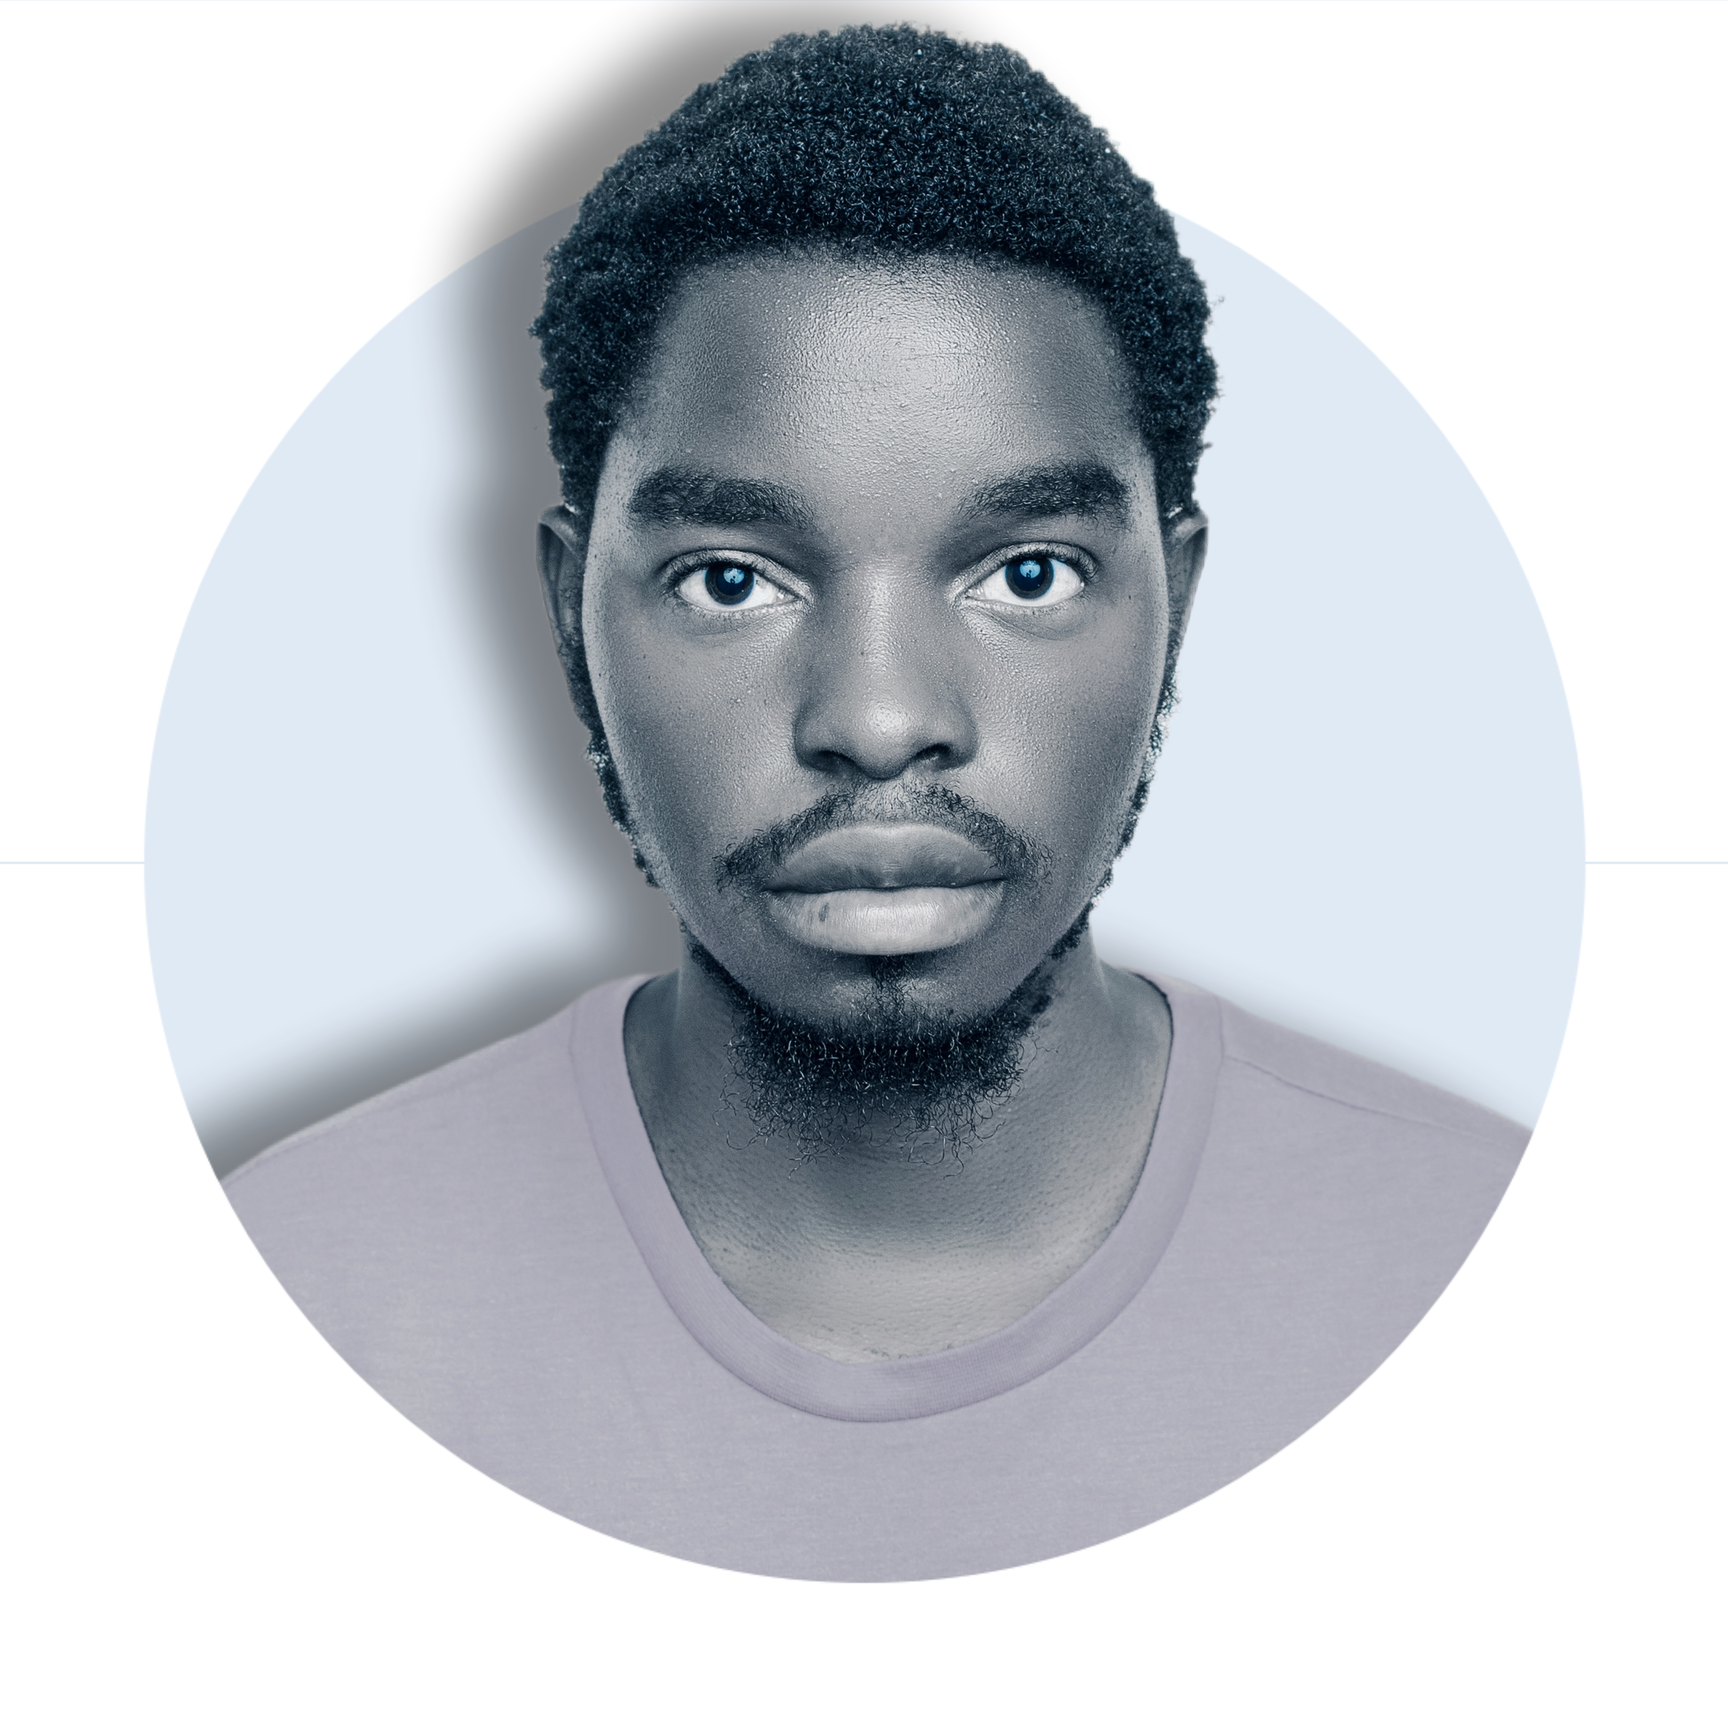
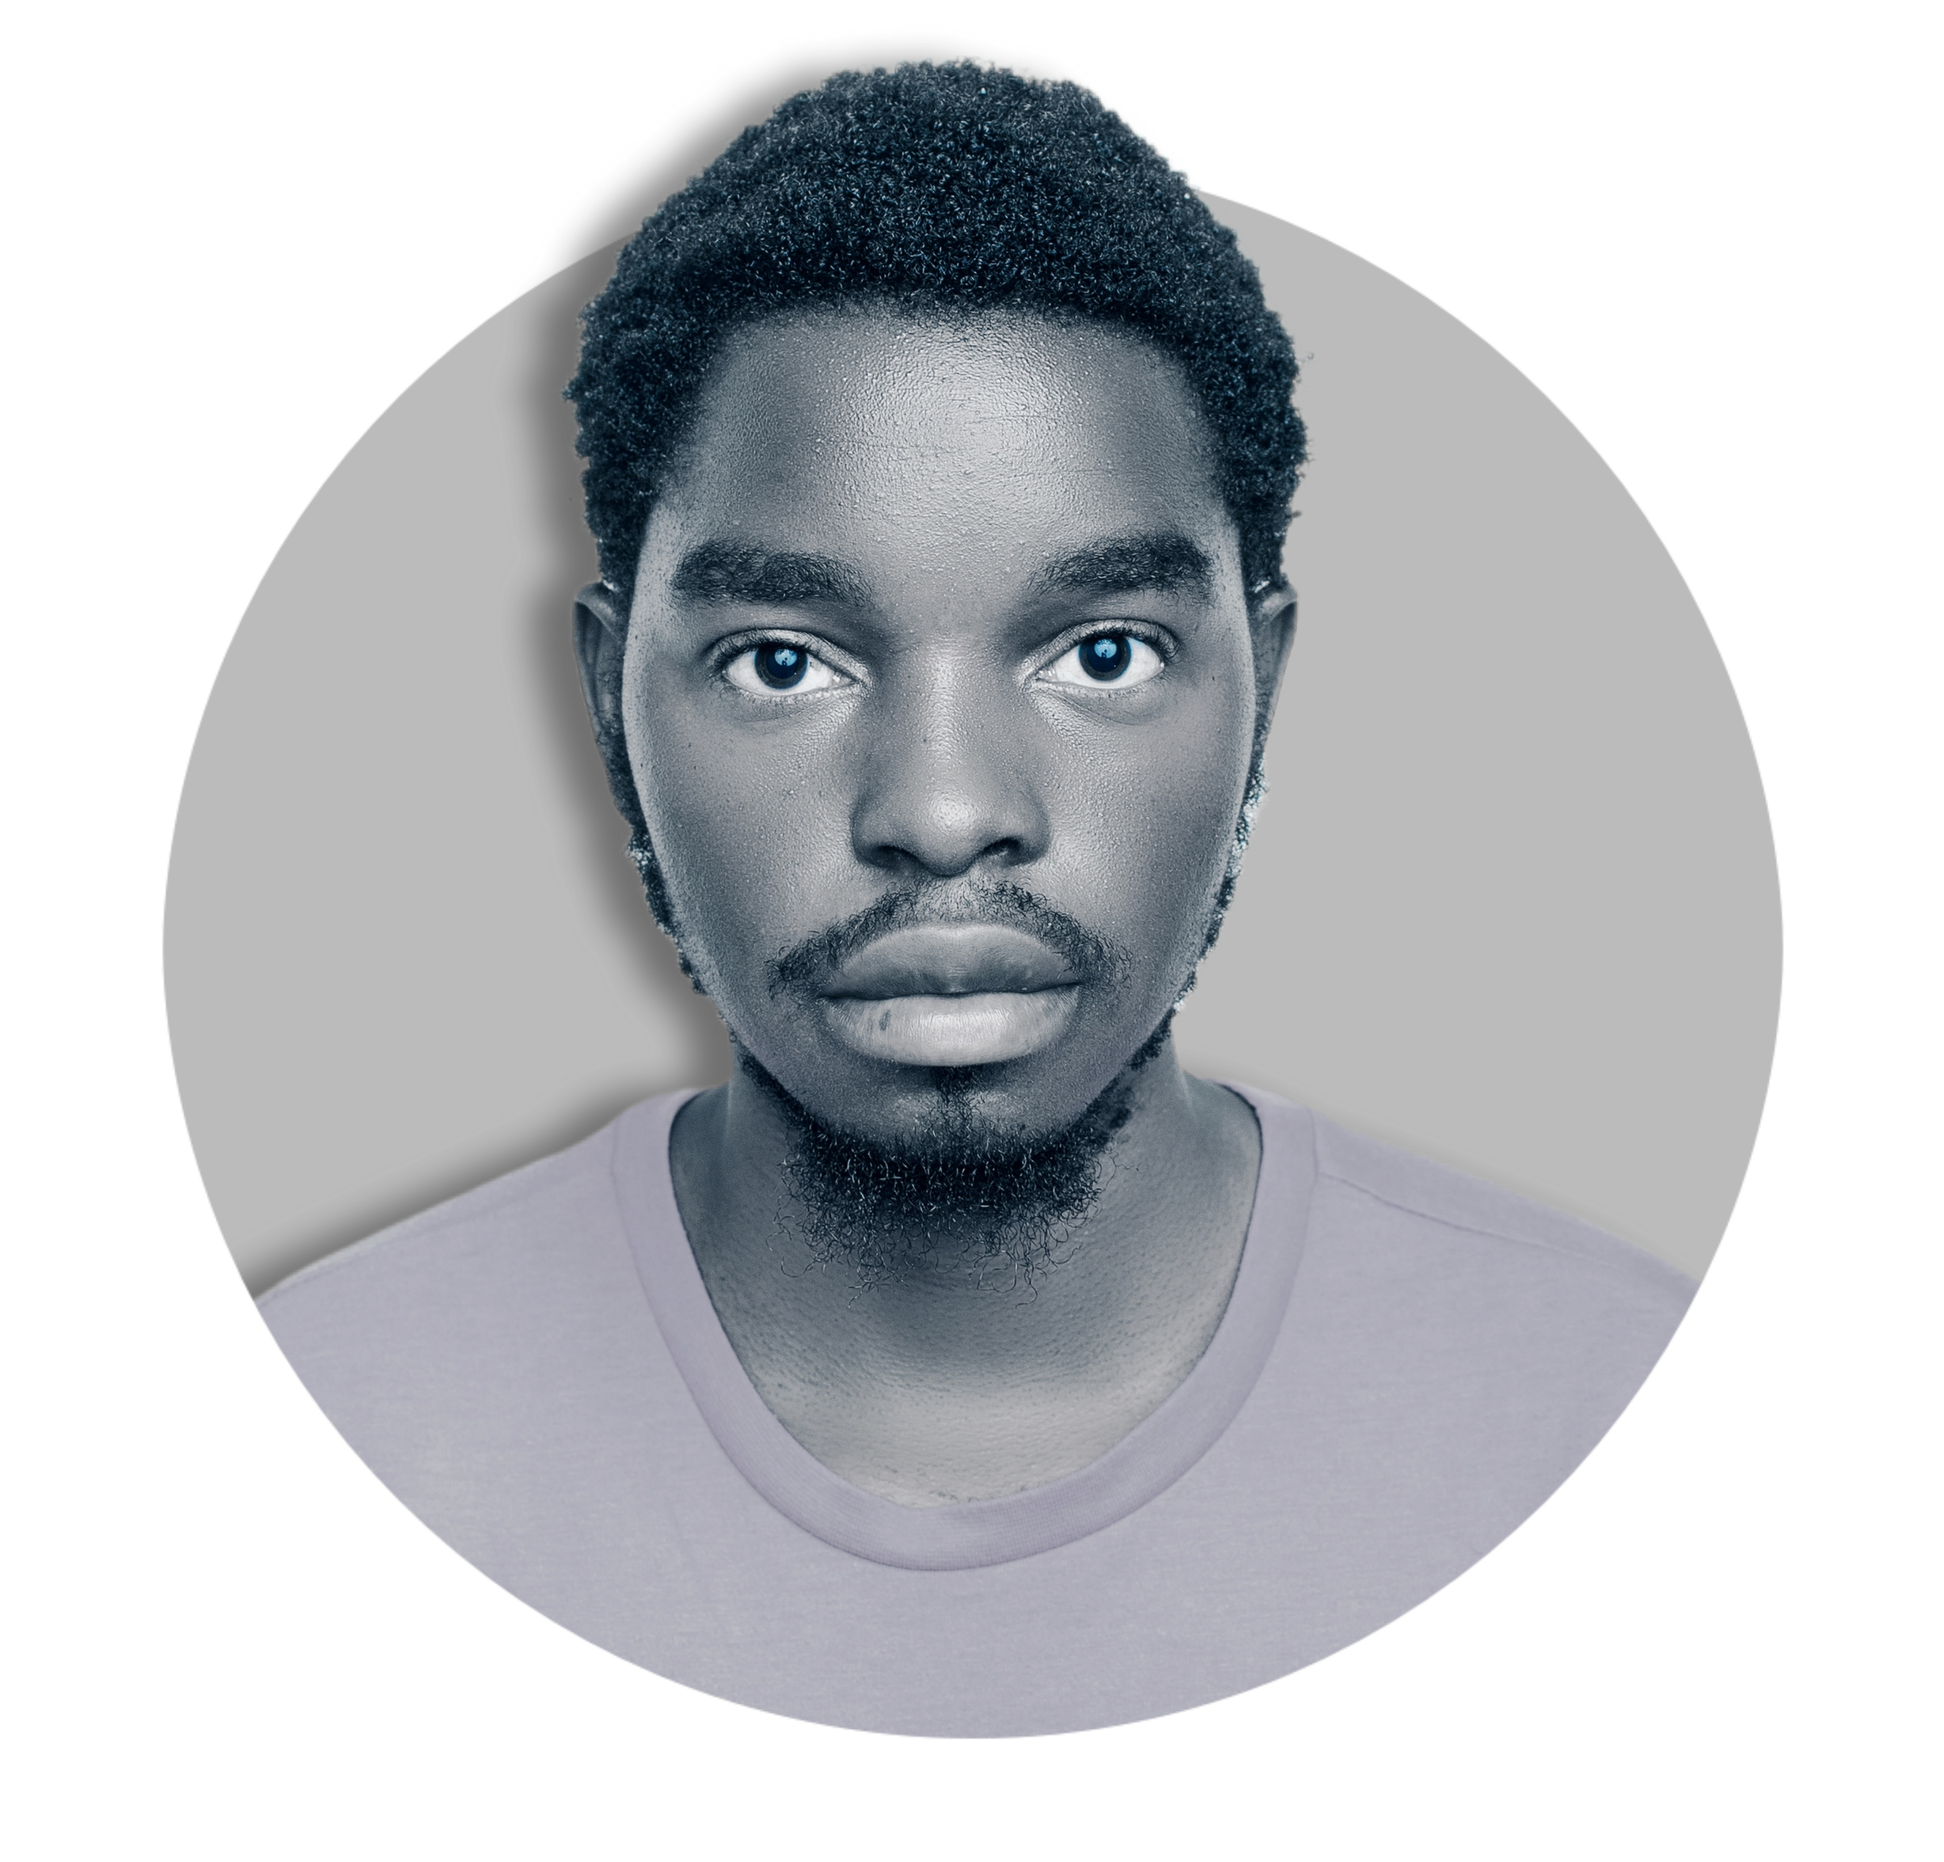
now version 12 --changed loading picture of PWA and css of pop up PWA install button

diff --git a/src/InstallPWA.tsx b/src/InstallPWA.tsx
@@ -1,5 +1,5 @@
 import React, { useEffect, useState } from 'react';
-import '/styles/InstallPWA.css';
+import './styles/InstallPWA.css';
 
 interface BeforeInstallPromptEvent extends Event {
   prompt: () => Promise<void>;

diff --git a/public/service-worker.js b/public/service-worker.js
@@ -1,5 +1,5 @@
 // Cache name with version
-const CACHE_NAME = 'stanleygersom-portfolio-v11';
+const CACHE_NAME = 'stanleygersom-portfolio-v12';
 
 // Files to cache
 const urlsToCache = [

diff --git a/styles/InstallPWA.css b/styles/InstallPWA.css
@@ -1,5 +1,5 @@
 /* Updated v1.2 */
-button.install-button {
+.install-button {
   position: fixed;
   bottom: 1rem;
   left: 1rem; /* Changed from right to left */
